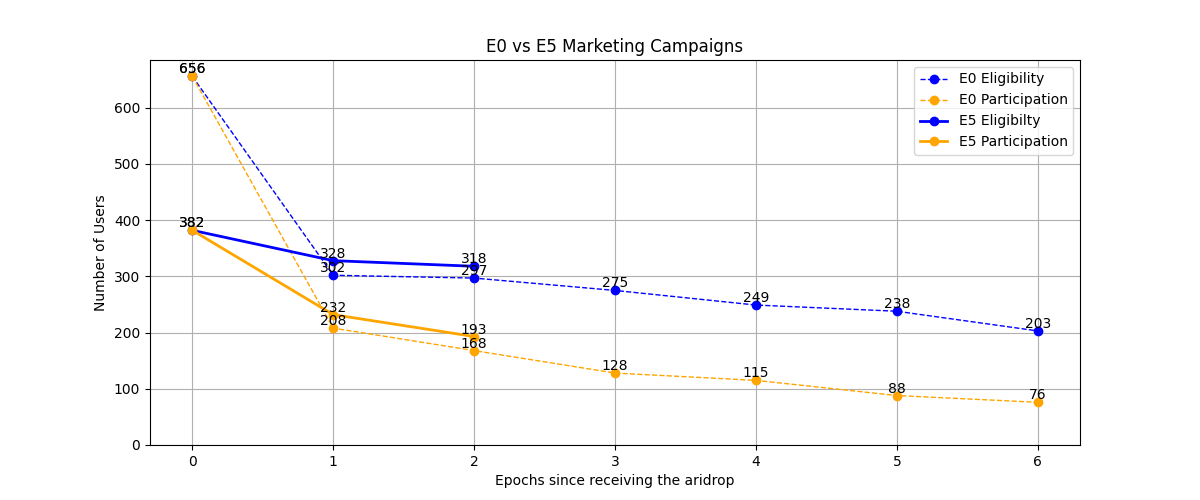
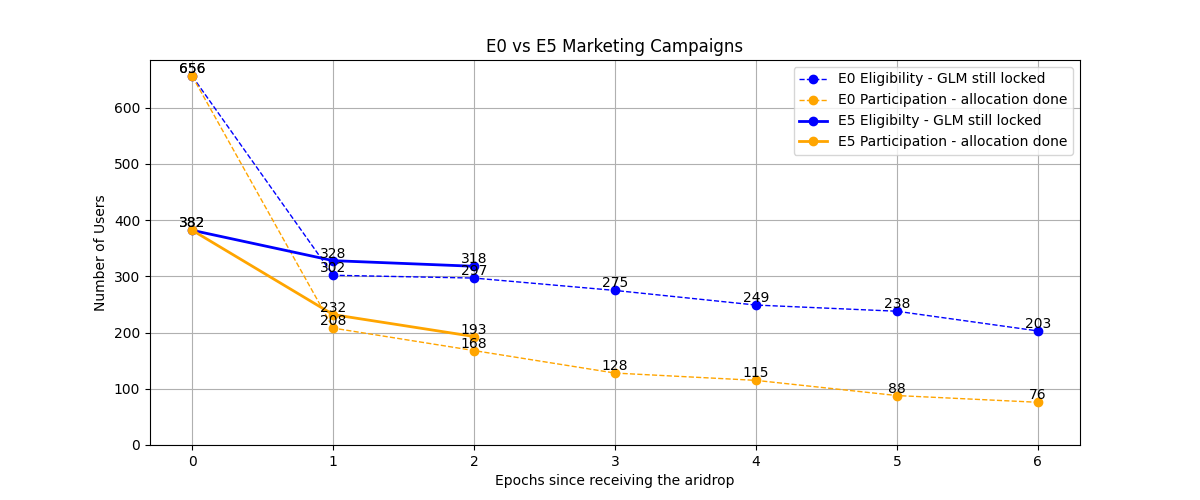
add descriptions

Changed region(s): [[0.6475, 0.12, 0.8942, 0.3]]

diff --git a/e6.html b/e6.html
@@ -97,7 +97,7 @@ layout: default
             {% include e6/content/text_1.5.md %}
             {% endcapture %}
             {{ content | markdownify }}
-            <img src="assets/cats.png" alt="Categories" class="chart-image">
+            <img src="assets/e6/cats.png" alt="Categories" class="chart-image">
         </div>
     </div>
 
@@ -110,7 +110,7 @@ layout: default
             {% include e6/content/text_1.6.md %}
             {% endcapture %}
             {{ content | markdownify }}
-            <img src="assets/cats.png" alt="Categories" class="chart-image">
+            <img src="assets/e6/cats.png" alt="Categories" class="chart-image">
         </div>
     </div>
 
@@ -152,10 +152,11 @@ layout: default
         </div>
     </div>
 
-    <h2>(2.3) Leverage Differences</h2>
+
+    <h2>(2.3) Voting Power</h2>
 
     <div class="chart-container">
-        <img src="assets/e6/leverage_category.png" alt="Chart Image" class="chart-image">
+        <img src="assets/e6/voting_power.png" alt="Chart Image" class="chart-image">
         <div class="chart-description">
             {% capture content %}
             {% include e6/content/text_2.3.md %}
@@ -164,25 +165,13 @@ layout: default
         </div>
     </div>
 
-    <h2>(2.4) Voting Power</h2>
-
-    <div class="chart-container">
-        <img src="assets/e6/voting_power.png" alt="Chart Image" class="chart-image">
-        <div class="chart-description">
-            {% capture content %}
-            {% include e6/content/text_2.4.md %}
-            {% endcapture %}
-            {{ content | markdownify }}
-        </div>
-    </div>
-
-    <h2>(2.5) Proper QF</h2>
+    <h2>(2.3) Proper QF</h2>
 
     <div class="chart-container">
         <img src="assets/e6/proper_qf.png" alt="Chart Image" class="chart-image">
         <div class="chart-description">
             {% capture content %}
-            {% include e6/content/text_2.5.md %}
+            {% include e6/content/text_2.4.md %}
             {% endcapture %}
             {{ content | markdownify }}
         </div>

diff --git a/_includes/e6/content/text_3.2.md b/_includes/e6/content/text_3.2.md
@@ -1,2 +1,4 @@
 
-.
+This chart shows the engagement of Octant users who made an allocation in a particular epoch. On average, after one epoch passes, 92% of users still have their GLM locked, but only 69.8% participate in the allocation window. After two epochs, 80.5% have their GLM locked and only 54% make an allocation. After 5 epochs, only 59.1% of allocators have any GLM still locked, and just 25.1% participate in the allocation window.
+
+Note: This is based on averages calculated for every epoch (thin line charts). We have 5 observations for the first interval (i.e., 1 epoch passing) and only one observation for the 5th interval.

diff --git a/_includes/e6/content/text_2.1.md b/_includes/e6/content/text_2.1.md
@@ -1,2 +1,2 @@
 
-.
+Protocol Guild placed second for the first time, despite ranking 7th in total donations. The distribution of donations was fairly even across projects, ranging from 38 to 90 donations each. While Protocol Guild received the most support with 90 donations, this represented only about 21% of the 419 active users who supported at least one project.

diff --git a/_includes/e6/content/text_3.1.md b/_includes/e6/content/text_3.1.md
@@ -1,2 +1,2 @@
 
-.
+If an Octant user doesn't allocate during their first opportunity, they are unlikely to ever allocate. While there's a small chance they'll participate in the following epoch, after that we typically lose them permanently.

diff --git a/_includes/e6/content/text_1.6.md b/_includes/e6/content/text_1.6.md
@@ -1,2 +1,2 @@
 
-.
+The distribution of user types remains similar to Epoch 5. XL users continue to claim the majority of their rewards, while other categories maintain their predominantly full-regen status.

diff --git a/_includes/e6/content/text_1.7.md b/_includes/e6/content/text_1.7.md
@@ -1,2 +1,2 @@
 
-.
+Octant users support an average of 4.5 projects, unchanged from Epoch 5. Most users supported just one project, consistent with Epoch 5 but different from earlier epochs like Epoch 4.

diff --git a/_includes/e6/content/text_3.3.md b/_includes/e6/content/text_3.3.md
@@ -1,2 +1,2 @@
 
-.
+Similar chart as above (absolute amounts, not relative), but limited to E0 airdrop recipients and users who received GLM in Epoch 5 marketing campaigns.

diff --git a/_includes/e6/content/text_2.2.md b/_includes/e6/content/text_2.2.md
@@ -1,2 +1,2 @@
 
-.
+For the first time there is no clear correlation between the number of donors and total matching funding.

diff --git a/_includes/e6/content/text_2.3.md b/_includes/e6/content/text_2.3.md
@@ -1,2 +1,2 @@
 
-.
+Similar to Epoch 5. Epoch 4 for reference (whales less relevant). 

diff --git a/_includes/e6/content/text_2.4.md b/_includes/e6/content/text_2.4.md
@@ -1,2 +1,2 @@
 
-.
+Similar to Epoch 5.
